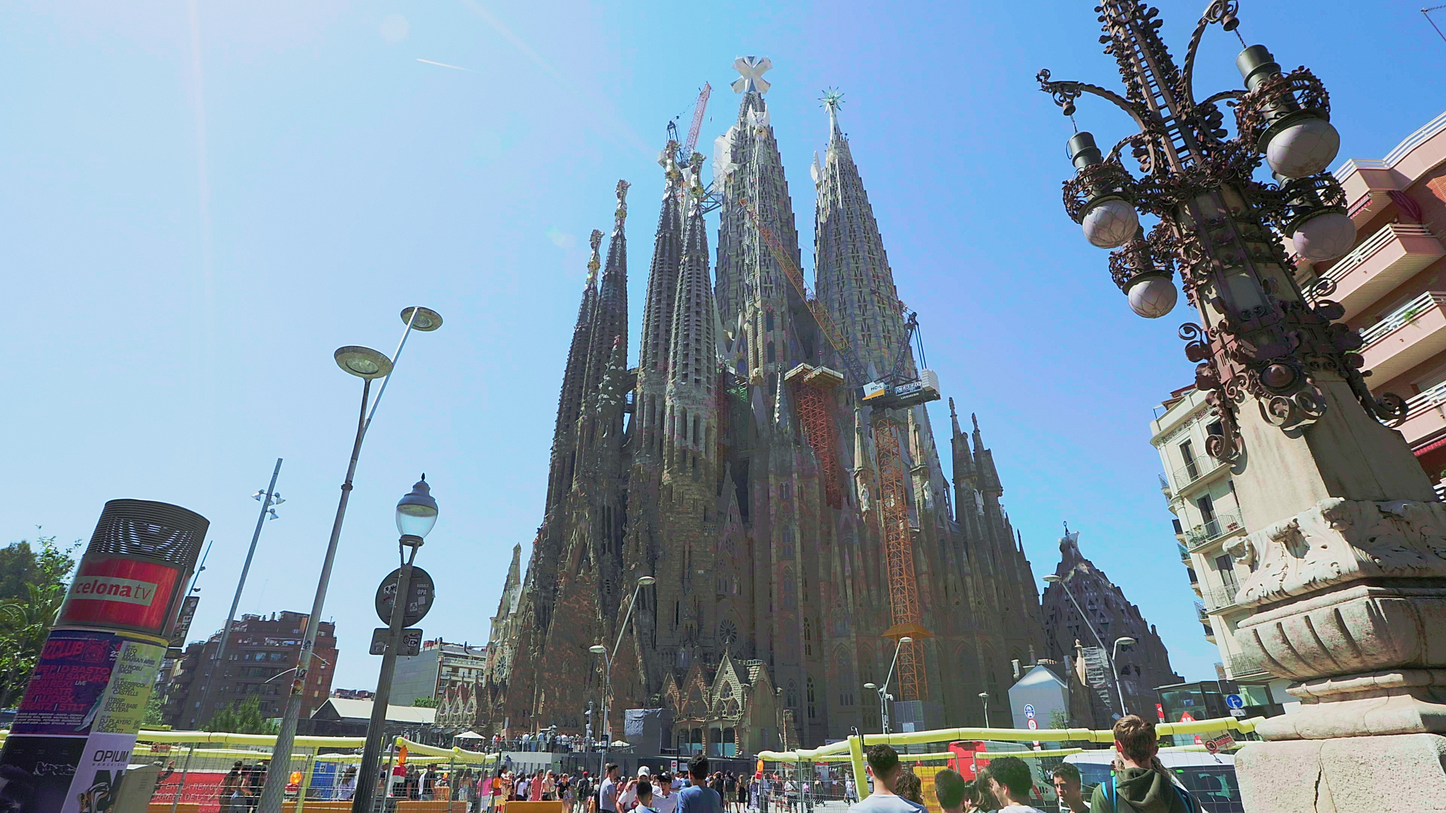
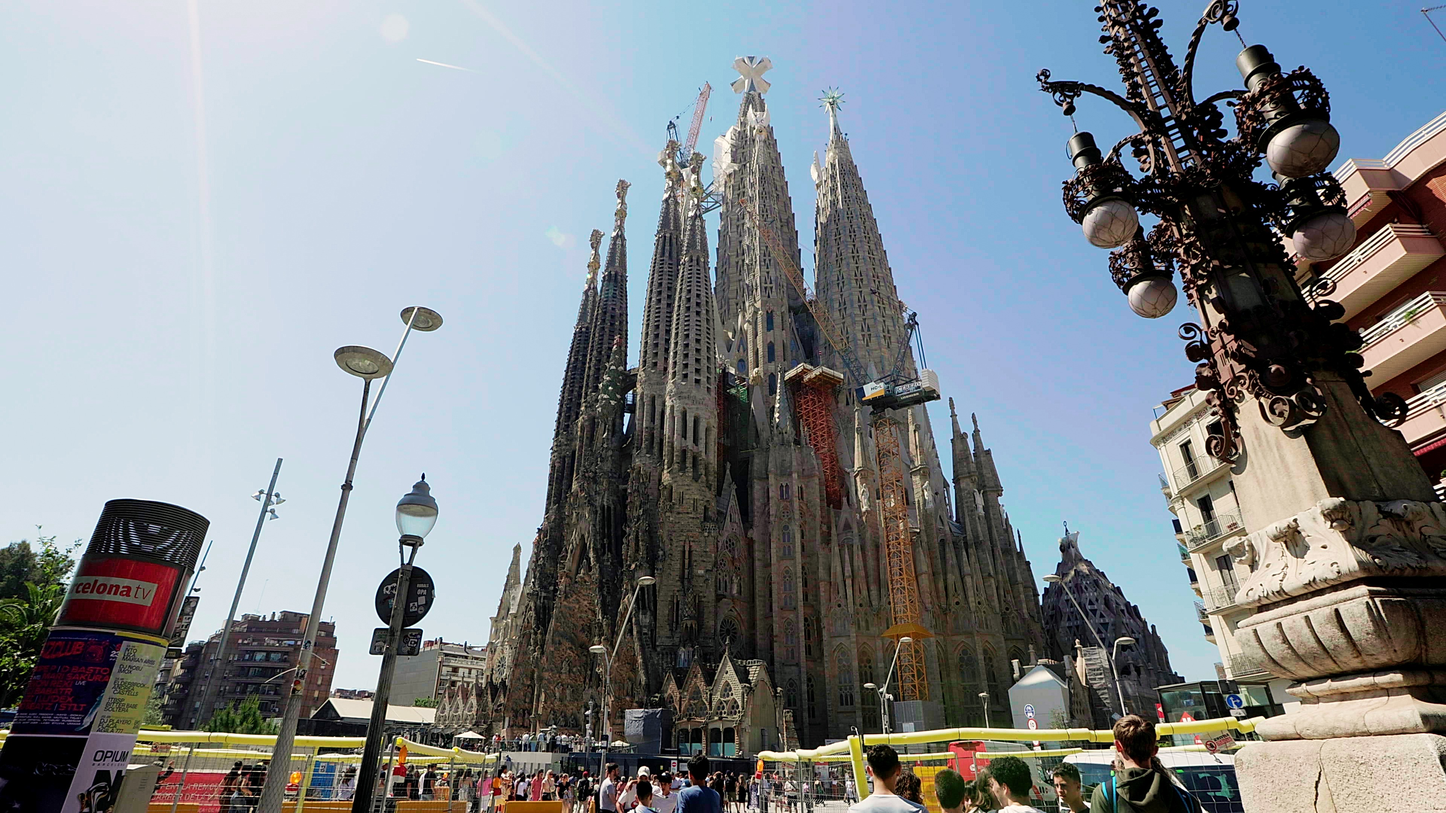
peca volta para LUT + referencia; frames so-LUT para o Daniel calibrar
O preset feito para CR3 nao funcionou sobre Rec709 ja convertido, entao a
peca volta para a rota aprovada (LUT da camera + casamento com as fotos
exportadas). O codigo do --preset fica, sem uso na peca.

presets-luts/so-lut-clog3-rec709/: cinco frames com SO o LUT aplicado, sem
exposicao, curva, saturacao ou sharpen. PNG sem perda, para o Daniel montar
o preset em cima do ponto de partida real do worker. Cinco condicoes de luz
diferentes.

presets-luts/hald-identity-nivel8.png e LEIA.md com o caminho de volta.

diff --git a/presets-luts/LEIA.md b/presets-luts/LEIA.md
@@ -1,0 +1,40 @@
+# presets-luts
+
+## `so-lut-clog3-rec709/`
+
+Cinco frames do bruto da Espanha com **só o LUT Canon Log3 → Rec709 aplicado**,
+nada mais: sem exposição automática, sem curva, sem saturação, sem sharpen.
+PNG 3840×2160, sem perda. É exatamente o ponto de partida que o worker usa
+antes de qualquer ajuste.
+
+Comando que gerou:
+
+    node tools/render.mjs cor <frame.png> --out <saida.png> \
+      --lut assets/luts/canon-log3-rec709.cube --exposicao off
+
+| Arquivo | Cena | Por que está aqui |
+|---|---|---|
+| `gran-via-fim-de-tarde.png` | Gran Vía, Edifício Metrópolis | luz baixa, céu com gradiente amplo |
+| `sala-equis-interior.png` | Sala Equis | interior, luz mista, neon |
+| `calcada-dia.png` | calçada arborizada | dia aberto, sombra de árvore |
+| `sagrada-familia-sol.png` | Sagrada Família | sol forte, céu azul, alto contraste |
+| `mesa-restaurante.png` | mesa de restaurante | tons quentes, pele, comida |
+
+## `Padrao Fotos Versao Nova Suave.xmp`
+
+Preset do Lightroom do Daniel, feito para CR3 da R6. Aplicado sobre o Rec709 já
+convertido pelo LUT, não deu certo (lava a imagem e o Hue Yellow +36 puxa o
+horizonte alaranjado para verde-oliva). Fica guardado como referência do look.
+
+## `hald-identity-nivel8.png`
+
+HALD CLUT identity, 512×512 / 64 passos por canal. Caminho para trazer um look
+do Lightroom para cá como tabela de cor:
+
+1. importar no Lightroom **sem nenhum ajuste automático**;
+2. aplicar o preset;
+3. exportar PNG no tamanho original, sem redimensionar, sem sharpen de saída, sRGB;
+4. `node tools/render.mjs cor <foto> --out X --lut <hald-revelado.png>`
+
+Não transporta o que é espacial (Texture, Clarity, Dehaze, sharpen, redução de
+ruído) — só tom e cor.
